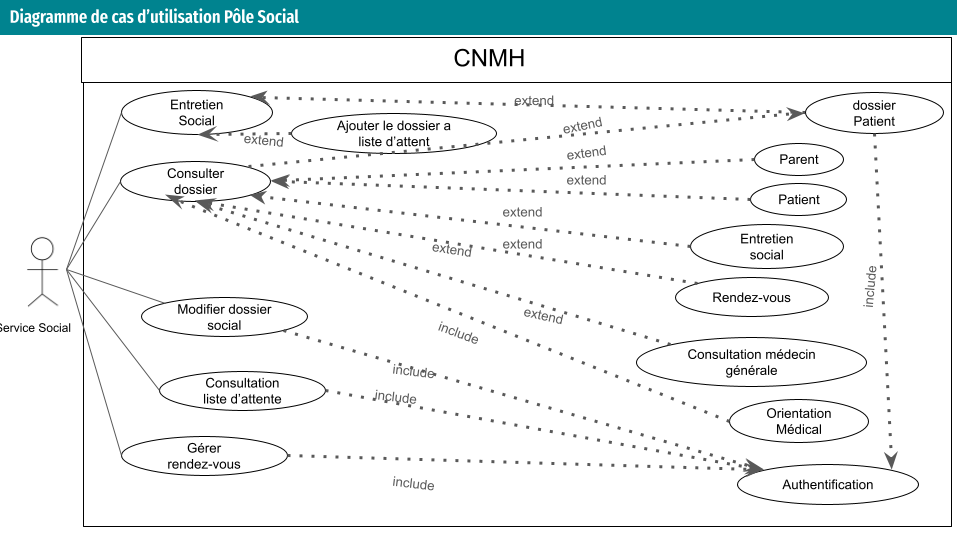
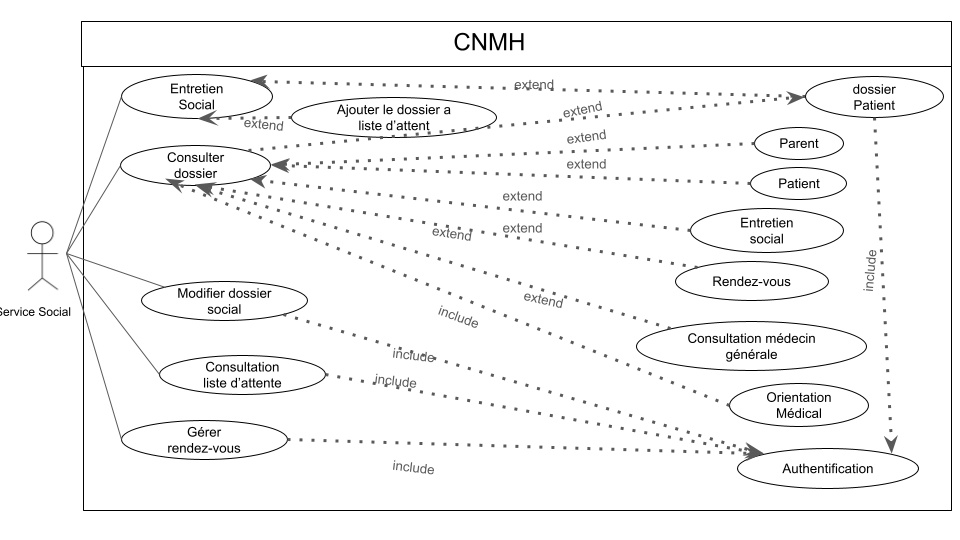
update

diff --git a/docs/Pôle-sociale/use-case-diagramme.md b/docs/Pôle-sociale/use-case-diagramme.md
@@ -6,8 +6,6 @@ order: 5
 ---
 
 ## Diagramme de cas d'utilisation 
-![Pôle social ](/analyse/Pôle-sociale/images/Analyse.png){: width="600px" }*Figure : Diagramme de cas d'utilisation Pôle social *
-
-
+![Pôle social ](/analyse/Pôle-sociale/images/Analyse.png){: width="900px" }*Figure : Diagramme de cas d'utilisation Pôle social*
 
 <!-- new slide -->

diff --git a/docs/Pôle-sociale/idéation.md b/docs/Pôle-sociale/idéation.md
@@ -8,6 +8,8 @@ order: 4
 # Pôle social 
 {:class="sectionHeader"}
 
+<!-- new slide -->
+
 ## Idéation 
 - Créez une application web qui permettra :
     - Automatiser le processus de création de dossier social pour réduire les délais.
